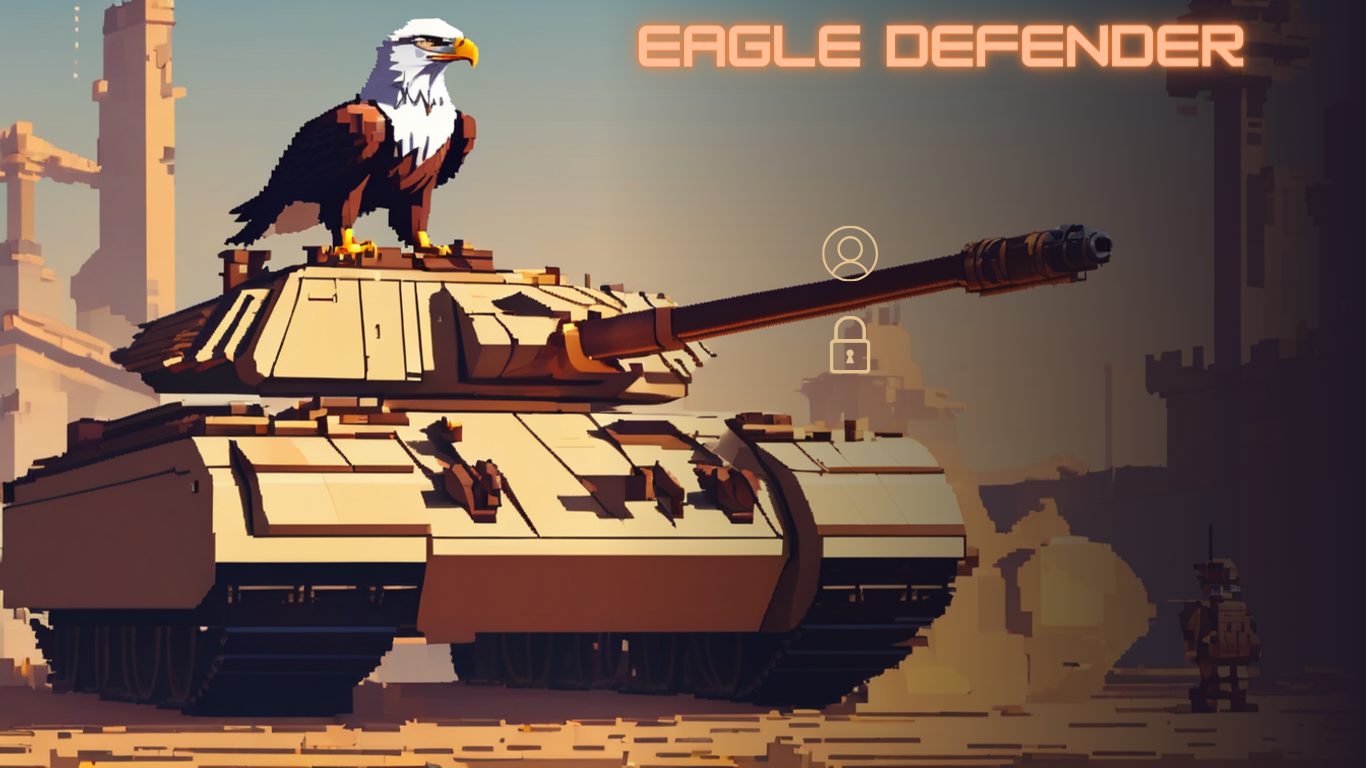
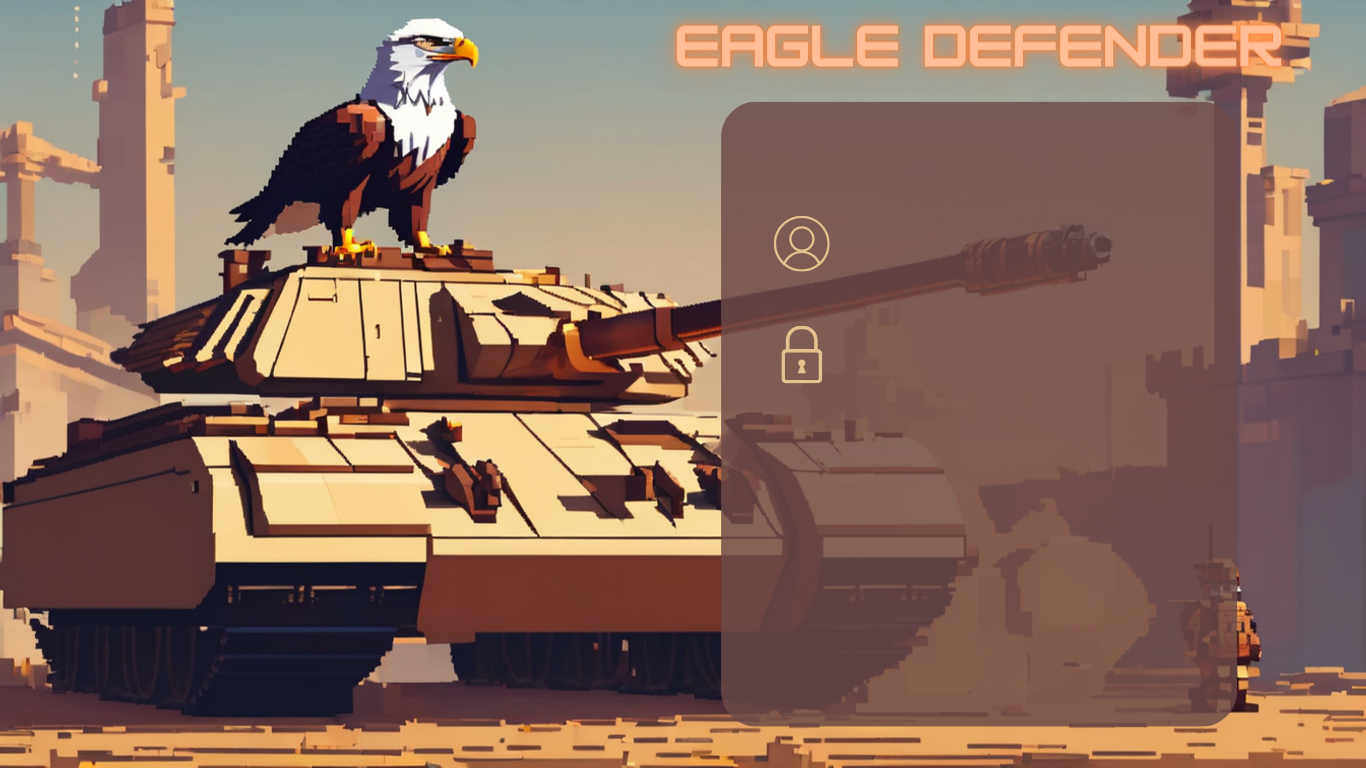
Crear una nueva cuenta, verfiicar contraseña y poder agregar una foto

diff --git a/login.py b/login.py
@@ -2,9 +2,11 @@ import json
 import sys
 import pygame
 import pygame_gui
-from pygame_button import Button
-import pygame_textinput
-from pygame.examples.textinput import TextInput
+from pygame_gui.elements import UIButton, UIImage
+from pygame_gui.windows import UIFileDialog
+from pygame_gui.core.utility import create_resource_path
+from Menu import Menu_window
+from tkinter import messagebox
 
 
 class Initial_window:
@@ -23,8 +25,10 @@ class Initial_window:
         self.combo_box = pygame_gui.elements.UIDropDownMenu(languages_list, 'pygame-gui.Spanish', relative_rect=pygame.Rect(25, 30, 150, 50), manager=self.gui_manager)
 
         #Cuadros de texto del Login
-        self.username_rect = pygame.Rect(920, 230, 350, 45)
-        self.password_rect = pygame.Rect(920, 320, 350, 45)
+        self.username_rect = pygame.Rect(850, 220, 350, 45)
+        self.password_rect = pygame.Rect(850, 330, 350, 45)
+
+        #Botones
         self.button_signin = pygame.Rect(920, 430, 150, 70)
         self.button_signup = pygame.Rect(920, 520, 150, 70)
 
@@ -36,19 +40,6 @@ class Initial_window:
 
         self.button_signin_label = pygame_gui.elements.UIButton(relative_rect=self.button_signin, text="language.sign_in", manager=self.gui_manager)
         self.button_signup_label = pygame_gui.elements.UIButton(relative_rect=self.button_signup, text="language.sign_up", manager=self.gui_manager)
-
-
-
-
-    account_string = '''
-    {
-        "account":
-         {
-            "username": "",
-            "password": "",
-        } 
-    }
-    '''
 
     def begin(self):
         clock = pygame.time.Clock()  # Agrega un reloj para limitar la velocidad de fotogramas
@@ -64,38 +55,16 @@ class Initial_window:
 
                 if event.type == pygame_gui.UI_BUTTON_PRESSED:
                     if event.ui_element == self.button_signin:
-                        print("Hola")
-                        self.username_entry.clear()
-                        self.password_entry.clear()
+                        self.signIn()
                     elif event.ui_element == self.button_signup:
-                        self.username_entry.get_text()
-                        self.password_entry.get_text()
-                        with open('config/users.json', 'r') as archivo:
-                            data = json.load(archivo)
-                        new_user = {
-                            "username": self.username_entry.get_text(),
-                            "password": self.password_entry.get_text(),
-                            "language": self.gui_manager.get_locale()
-                        }
-                        users = data["users"]
-                        user_exist = next((user for user in users if user["username"] == new_user["username"]), None)
-                        if user_exist:
-                            print(f"El usuario ya existe")
-                        else:
-                            data["users"].append(new_user)
-                            with open('config/users.json', 'w') as archivo:
-                                json.dump(data, archivo, indent=4)
-                            print("Usuario agregado")
+                        signup_window = SignUp_Window(1366, 768)
+                        signup_window.begin()
 
                 if event.type == pygame_gui.UI_DROP_DOWN_MENU_CHANGED:
                     if event.text == 'pygame-gui.English':
                         self.gui_manager.set_locale('en')
                     elif event.text == 'pygame-gui.Spanish':
                         self.gui_manager.set_locale('es')
-
-                #  if event.type == pygame.MOUSEBUTTONDOWN:
-               #     if self.ca_button.collidepoint(event.pos):
-               #        print("Me cago en JSON")
 
                 # Salir del juego con esc
                 if event.type == pygame.KEYDOWN:
@@ -106,8 +75,142 @@ class Initial_window:
                 # Pasar eventos de pygame a pygame_gui
                 self.gui_manager.process_events(event)            # Actualiza el administrador de interfaz de usuario de pygame_gui
 
+            self.gui_manager.update(time_delta)
+            self.screen.blit(self.background, (0, 0))
+            # Dibuja los elementos de la interfaz de usuario de pygame_gui
+            self.gui_manager.draw_ui(self.screen)
+            pygame.display.update()
+
+    def signIn(self):
+        with open('config/users.json', 'r') as file:
+            data = json.load(file)
+
+        for user in data['users']:
+            if user['username'] == self.username_entry.get_text() and user['password'] == self.password_entry.get_text():
+                menu_window = Menu_window(1366, 768, self.username_entry.get_text())
+                menu_window.begin()
+        messagebox.showinfo("Error","Usuario o contraseña incorrectos")
 
 
+class SignUp_Window:
+    def __init__(self, ancho, alto):
+        pygame.init()
+        self.screen = pygame.display.set_mode((ancho, alto))
+        pygame.display.set_caption("SignUp")
+        self.background = pygame.image.load("assets/signup_bg.png")
+
+        # Inicializar el administrador de interfaz de usuario de pygame_gui
+        self.gui_manager = pygame_gui.UIManager((ancho, alto), starting_language='es', translation_directory_paths=['config/translation'])
+
+        # Crear un ComboBox
+        languages_list = ['pygame-gui.English',
+                          'pygame-gui.Spanish']
+        self.combo_box = pygame_gui.elements.UIDropDownMenu(languages_list, 'pygame-gui.Spanish', relative_rect=pygame.Rect(25, 30, 150, 50), manager=self.gui_manager)
+
+        #Cuadros de texto del Login
+        self.username_rect = pygame.Rect(540, 260, 350, 45)
+        self.password_rect = pygame.Rect(540, 380, 350, 45)
+        self.password_confirm_rect = pygame.Rect(540, 450, 350, 45)
+
+        #Botones
+        self.button_signin = pygame.Rect(455, 540, 150, 70)
+        self.button_createaccount = pygame.Rect(750, 540, 150, 70)
+        self.button_picture = pygame.Rect(1085, 360, 150, 40)
+
+        # Crear un cuadro de entrada
+        self.username_entry = pygame_gui.elements.UITextEntryLine(relative_rect=self.username_rect, manager=self.gui_manager)
+        self.password_entry = pygame_gui.elements.UITextEntryLine(relative_rect=self.password_rect, manager=self.gui_manager)
+        self.password_entry.set_text_hidden(True)
+        self.password_confirm_entry = pygame_gui.elements.UITextEntryLine(relative_rect=self.password_confirm_rect,
+                                                                  manager=self.gui_manager)
+        self.password_confirm_entry.set_text_hidden(True)
+
+        self.button_signin_label = pygame_gui.elements.UIButton(relative_rect=self.button_signin, text="language.sign_in", manager=self.gui_manager)
+        self.button_signup_label = pygame_gui.elements.UIButton(relative_rect=self.button_createaccount, text="language.create_account", manager=self.gui_manager)
+        self.button_picture_label = pygame_gui.elements.UIButton(relative_rect=self.button_picture, text="language.upload_picture", manager=self.gui_manager)
+
+        self.file_dialog = None
+
+        # scale images, if necessary so that their largest dimension does not exceed these values
+        self.max_image_display_dimensions = (150, 150)
+        self.display_loaded_image = None
+
+
+    def begin(self):
+        clock = pygame.time.Clock()  # Agrega un reloj para limitar la velocidad de fotogramas
+
+        while True:
+            time_delta = clock.tick(60) / 1000.0  # Limita la velocidad de fotogramas a 60 FPS
+
+            #salir del juego con la ventana
+            for event in pygame.event.get():
+                if event.type == pygame.QUIT:
+                    pygame.quit()
+                    sys.exit()
+
+                if event.type == pygame_gui.UI_BUTTON_PRESSED:
+                    if event.ui_element == self.button_signin:
+                        login_window = Initial_window(1366, 768)
+                        login_window.begin()
+
+                    elif event.ui_element == self.button_createaccount:
+                        self.createAccount()
+
+                    elif event.ui_element == self.button_picture:
+                        self.upload_picture()
+
+                if event.type == pygame_gui.UI_DROP_DOWN_MENU_CHANGED:
+                    if event.text == 'pygame-gui.English':
+                        self.gui_manager.set_locale('en')
+                    elif event.text == 'pygame-gui.Spanish':
+                        self.gui_manager.set_locale('es')
+
+                # Salir del juego con esc
+                if event.type == pygame.KEYDOWN:
+                    if event.key == pygame.K_ESCAPE:
+                        pygame.quit()
+                        sys.exit()
+
+                if event.type == pygame_gui.UI_FILE_DIALOG_PATH_PICKED:
+                    if self.display_loaded_image is not None:
+                        self.display_loaded_image.kill()
+
+                    try:
+                        image_path = create_resource_path(event.text)
+                        loaded_image = pygame.image.load(image_path).convert_alpha()
+                        image_rect = loaded_image.get_rect()
+                        aspect_ratio = image_rect.width / image_rect.height
+                        need_to_scale = False
+                        if image_rect.width > self.max_image_display_dimensions[0]:
+                            image_rect.width = self.max_image_display_dimensions[0]
+                            image_rect.height = int(image_rect.width / aspect_ratio)
+                            need_to_scale = True
+
+                        if image_rect.height > self.max_image_display_dimensions[1]:
+                            image_rect.height = self.max_image_display_dimensions[1]
+                            image_rect.width = int(image_rect.height * aspect_ratio)
+                            need_to_scale = True
+
+                        if need_to_scale:
+                            loaded_image = pygame.transform.smoothscale(loaded_image,
+                                                                        image_rect.size)
+
+                        image_rect.center = (1160, 490)
+
+                        self.display_loaded_image = UIImage(relative_rect=image_rect,
+                                                            image_surface=loaded_image,
+                                                            manager=self.gui_manager)
+
+                    except pygame.error:
+                        pass
+
+                if (event.type == pygame_gui.UI_WINDOW_CLOSE
+                        and event.ui_element == self.file_dialog):
+                    self.button_picture_label.enable()
+                    self.file_dialog = None
+
+                # Pasar eventos de pygame a pygame_gui
+                self.gui_manager.process_events(event)
 
             self.gui_manager.update(time_delta)
             self.screen.blit(self.background, (0, 0))
@@ -116,5 +219,47 @@ class Initial_window:
             self.gui_manager.draw_ui(self.screen)
 
             pygame.display.update()
+
+    def createAccount(self):
+        self.username_entry.get_text()
+        self.password_entry.get_text()
+        self.password_entry.get_text()
+        if not self.username_entry.get_text().strip():
+            messagebox.showinfo("Error", "Ingresa un nombre de Usuario")
+        elif not self.password_entry.get_text().strip():
+            messagebox.showinfo("Error", "Ingresa una contraseña")
+        elif self.password_entry.get_text() != self.password_confirm_entry.get_text():
+            messagebox.showinfo("Error", "Las contraseñas no son iguales")
+        else:
+            with open('config/users.json', 'r') as archivo:
+                data = json.load(archivo)
+            new_user = {
+                "username": self.username_entry.get_text(),
+                "password": self.password_entry.get_text(),
+                "language": self.gui_manager.get_locale()
+            }
+            users = data["users"]
+            user_exist = next((user for user in users if user["username"] == new_user["username"]), None)
+            if user_exist:
+                messagebox.showinfo("Error", "Ya existe un usuario con ese nombre")
+            else:
+                data["users"].append(new_user)
+                with open('config/users.json', 'w') as archivo:
+                    json.dump(data, archivo, indent=4)
+                messagebox.showinfo("Exito", "Su cuenta se creó exitosamente")
+                login_window = Initial_window(1366, 768)
+                login_window.begin()
+
+    def upload_picture(self):
+        self.file_dialog = UIFileDialog(pygame.Rect(160, 50, 440, 500),
+                                        self.gui_manager,
+                                        window_title='Load Image...',
+                                        initial_file_path='data/images/',
+                                        allow_picking_directories=True,
+                                        allow_existing_files_only=True,
+                                        allowed_suffixes={""})
+        self.button_picture_label.disable()
+
+
 
 

diff --git a/Menu.py b/Menu.py
@@ -3,8 +3,8 @@ import pygame
 import pygame_gui
 from pygame import mixer
 from Seleccion import Select
-class Menu:
-    def __init__(self, ancho, alto):
+class Menu_window:
+    def __init__(self, ancho, alto, user):
         pygame.init()
         mixer.init()
         self.screen = pygame.display.set_mode((ancho, alto))
@@ -55,7 +55,6 @@ class Menu:
             self.gui_manager.update(time_delta)
 
             self.screen.blit(self.background, (0, 0))
-
 
             # Dibuja los elementos de la interfaz de usuario de pygame_gui
             self.gui_manager.draw_ui(self.screen)
